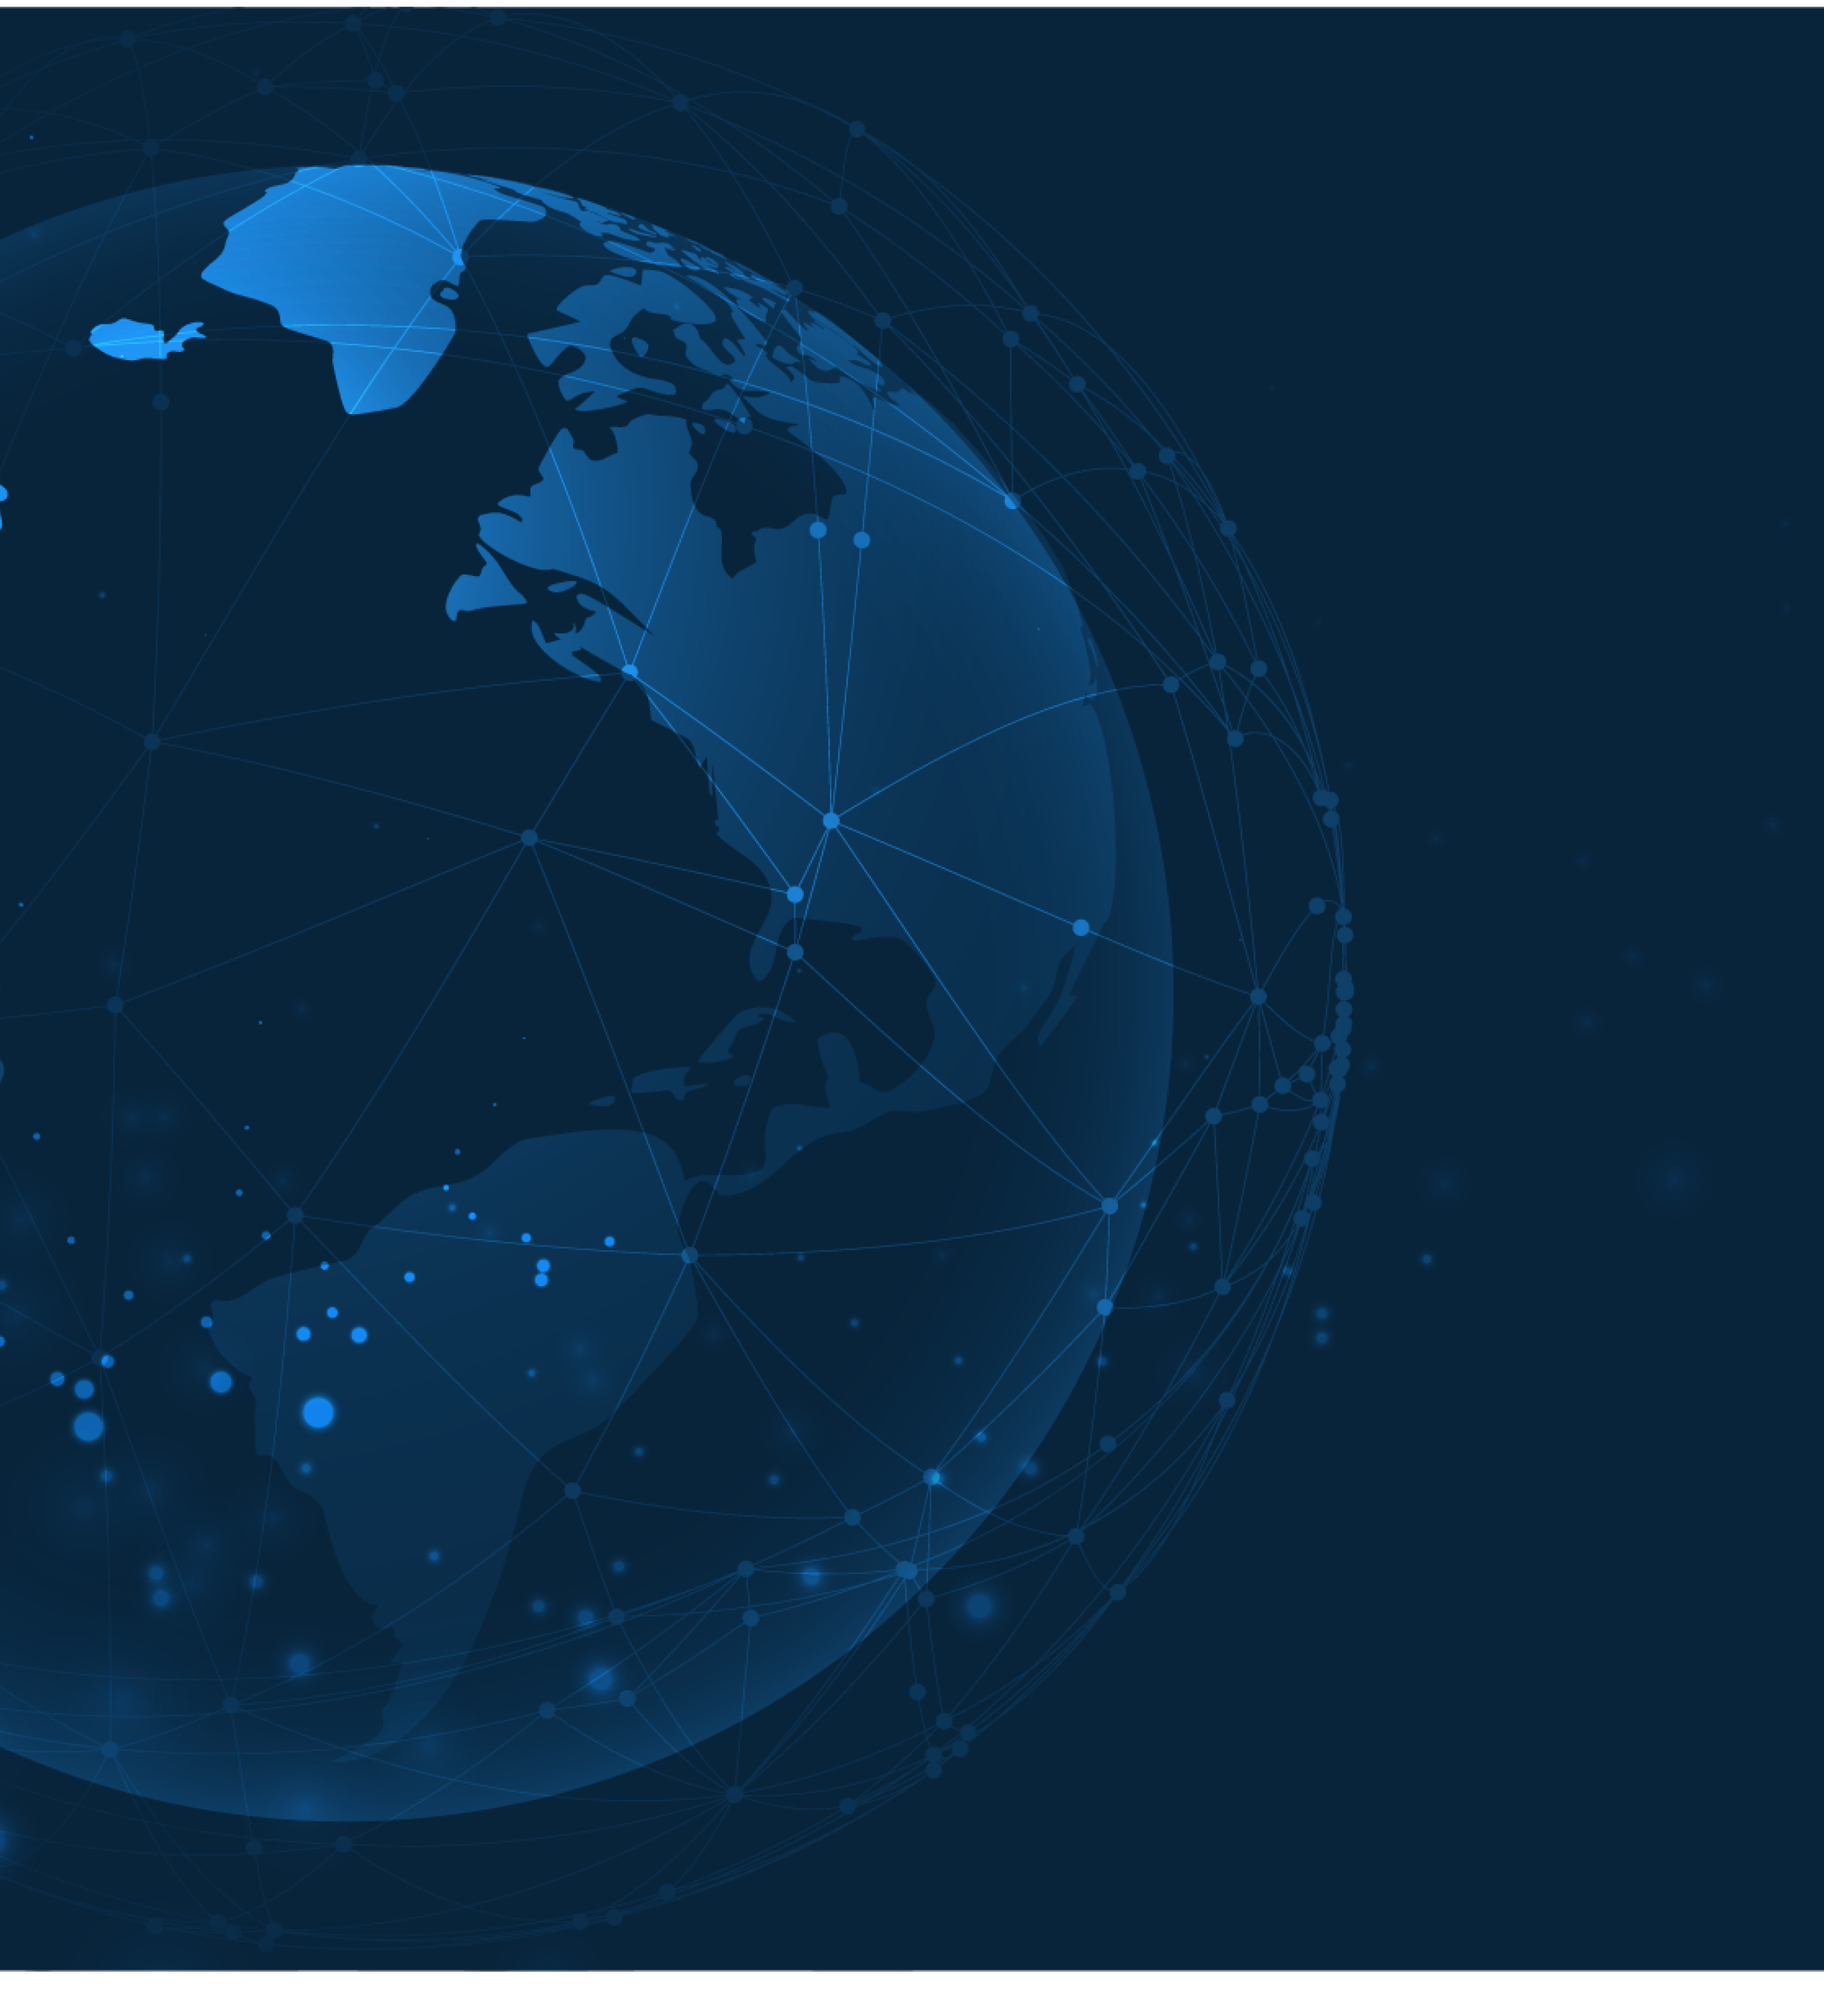
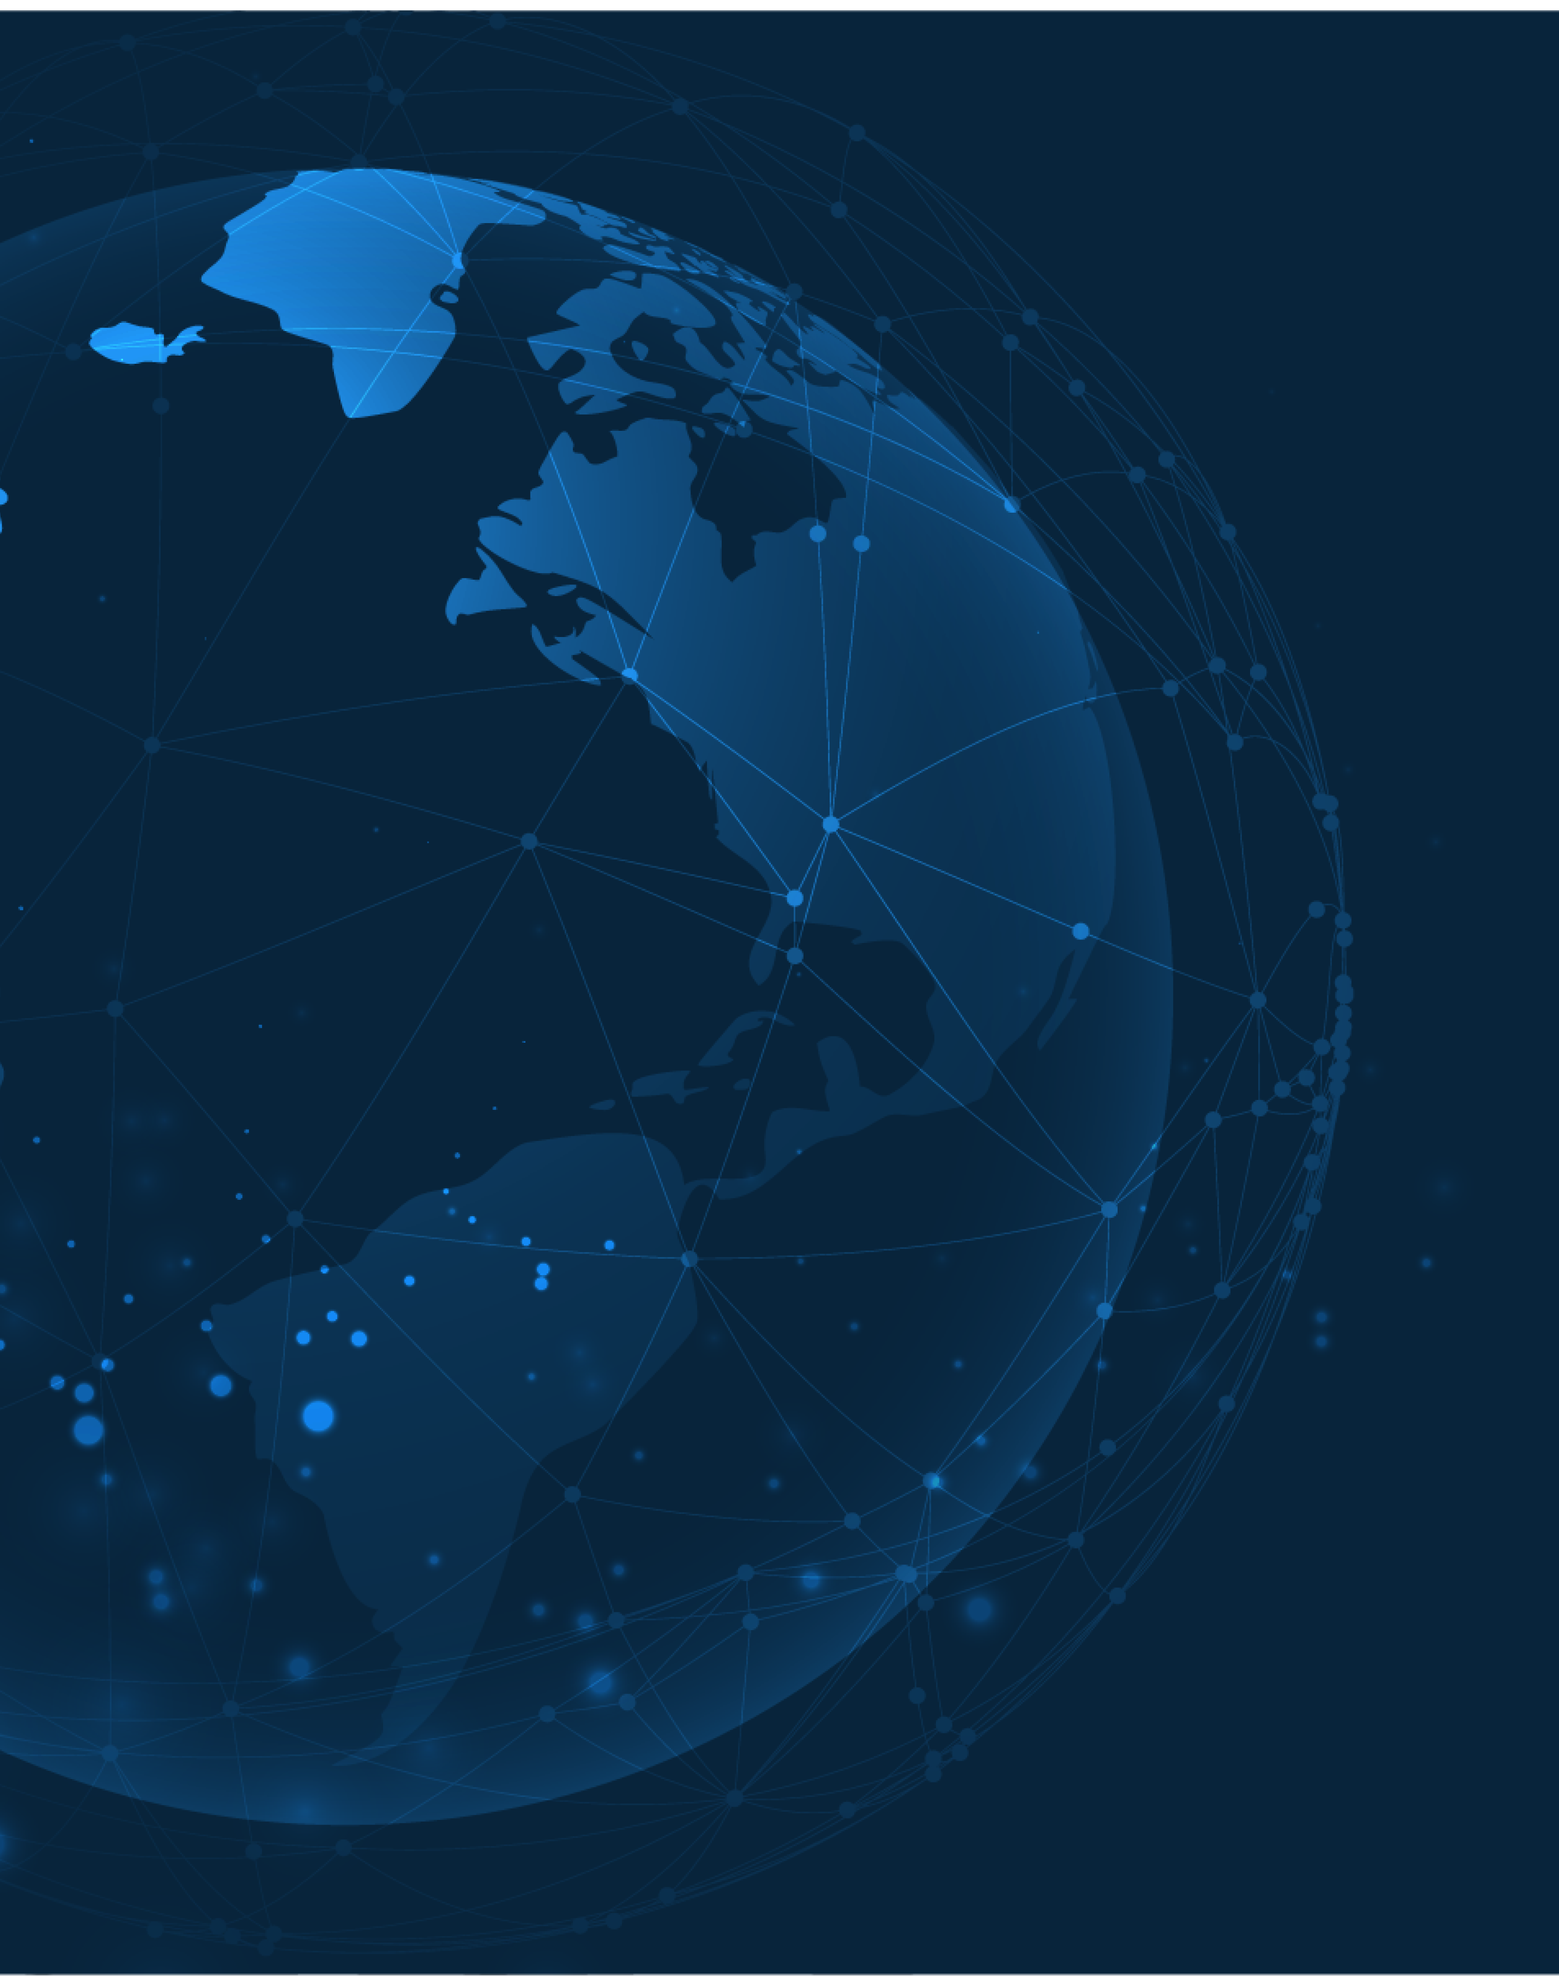
updated

diff --git a/src/components/ExploreAvail.jsx b/src/components/ExploreAvail.jsx
@@ -1,7 +1,7 @@
 import React from "react";
 
 // IMPORTS
-// import explore from "../assets/Globe.png";
+import explore from "../assets/Globe.png";
 import i1 from "../assets/explorePaymob/i1.png";
 import i2 from "../assets/explorePaymob/i2.png";
 import i3 from "../assets/explorePaymob/i3.png";
@@ -28,22 +28,22 @@ const ExploreAvail = () => {
 	];
 
 	return (
-		<div className="explore_availability_container pt-5 py-md-5">
+		<div className="explore_availability_container pt-md-5 py-md-5">
 			<div className="page_container">
 				<div className="container-fluid">
 					<div className="row">
 						<div className="col-11 col-lg-12 mx-auto">
 							<div className="row">
-								<div className="col-10 col-md-8 col-lg-6 mx-auto order-1 order-lg-0 px-0">
-									{/* <img className="w-100" src={explore} alt="explores" /> */}
+								<div className="col-10 col-md-8 col-lg-6 mx-auto order-1 order-lg-0 px-0 d-none d-md-block">
+									<img className="w-100" src={explore} alt="explores" />
 								</div>
 								<div className="col-12 col-lg-6">
 									<div className="row">
-										<div className="col-10 ms-auto">
-											<p className="text-end orangeC gotham f18 mb-0 mb-md-2">
+										<div className="col-md-10 ms-md-auto">
+											<p className="text-md-end orangeC gotham f18 mb-0 mb-md-2">
 												Where is Paymob?
 											</p>
-											<h1 className="text-white gotham fw700 text-end mb-4">
+											<h1 className="text-white gotham fw700 text-md-end mb-4">
 												Explore our availability
 											</h1>
 											<p className="border_bottom border-white pb-5 underHead text-white f18 crice fw600">

diff --git a/src/styles/style.css b/src/styles/style.css
@@ -1476,7 +1476,8 @@ input:focus {
 }
 
 .blog_list_container .inner_container {
-  background: #f1efec;
+  background: -webkit-gradient(linear, left top, left bottom, color-stop(-23.73%, rgba(17, 75, 124, 0.99)), to(#08243b));
+  background: linear-gradient(180deg, rgba(17, 75, 124, 0.99) -23.73%, #08243b 100%);
   -webkit-box-shadow: 0px 3px 11px rgba(0, 0, 0, 0.09);
           box-shadow: 0px 3px 11px rgba(0, 0, 0, 0.09);
   border-radius: 19px;
@@ -1485,10 +1486,10 @@ input:focus {
 
 .blog_list_container .thumbnail {
   max-width: 480px;
-  border-radius: 18px;
+  border-radius: 20px;
   min-height: 327px;
-  -webkit-box-shadow: 1px 1px 10px #ccc;
-          box-shadow: 1px 1px 10px #ccc;
+  -webkit-box-shadow: 0px 3px 11px rgba(0, 0, 0, 0.09);
+          box-shadow: 0px 3px 11px rgba(0, 0, 0, 0.09);
   -o-object-fit: cover;
      object-fit: cover;
   width: 100%;
@@ -2306,6 +2307,13 @@ input:focus {
   }
   .press_hero_container {
     padding-top: 4rem;
+  }
+  .explore_availability_container {
+    background: url("../assets/globe2.png");
+    height: 900px;
+    width: 100%;
+    background-repeat: no-repeat;
+    padding-top: 20rem;
   }
 }
 

diff --git a/src/styles/style.scss b/src/styles/style.scss
@@ -1537,7 +1537,11 @@ input:focus {
 	padding: 8rem 0rem 0rem 0rem;
 
 	.inner_container {
-		background: #f1efec;
+		background: linear-gradient(
+			180deg,
+			rgba(17, 75, 124, 0.99) -23.73%,
+			#08243b 100%
+		);
 		box-shadow: 0px 3px 11px rgba(0, 0, 0, 0.09);
 		border-radius: 19px;
 		padding: 1.5rem 2rem;
@@ -1545,9 +1549,9 @@ input:focus {
 
 	.thumbnail {
 		max-width: 480px;
-		border-radius: 18px;
+		border-radius: 20px;
 		min-height: 327px;
-		box-shadow: 1px 1px 10px #ccc;
+		box-shadow: 0px 3px 11px rgba(0, 0, 0, 0.09);
 		object-fit: cover;
 		width: 100%;
 	}
@@ -2424,6 +2428,13 @@ input:focus {
 	}
 	.press_hero_container {
 		padding-top: 4rem;
+	}
+	.explore_availability_container {
+		background: url("../assets/globe2.png");
+		height: 900px;
+		width: 100%;
+		background-repeat: no-repeat;
+		padding-top: 20rem;
 	}
 }
 

diff --git a/src/components/ContactBody.jsx b/src/components/ContactBody.jsx
@@ -80,12 +80,12 @@ const ContactBody = () => {
 												</li>
 											</ul>
 
-											<iframe
+											{/* <iframe
 												className="mt-4"
 												src="https://calendar.google.com/calendar/embed?height=600&wkst=1&bgcolor=%23ffffff&ctz=Europe%2FLondon&showTitle=1&showNav=1&showDate=1&showPrint=1&showTabs=1&showCalendars=1&showTz=1&title=June's%20calendar&src=anVuZXJlc3prYUBwYXltb2IudWs&src=YWRkcmVzc2Jvb2sjY29udGFjdHNAZ3JvdXAudi5jYWxlbmRhci5nb29nbGUuY29t&src=ZW4tZ2IudWsjaG9saWRheUBncm91cC52LmNhbGVuZGFyLmdvb2dsZS5jb20&src=anJlc3prYTk1QGdtYWlsLmNvbQ&color=%23039BE5&color=%2333B679&color=%230B8043&color=%239E69AF"
 												style={{ border: "solid 1px #777" }}
 												title="calender"
-											></iframe>
+											></iframe> */}
 										</div>
 									</div>
 								</div>

diff --git a/src/App.js b/src/App.js
@@ -13,9 +13,9 @@ import Home from "./pages/Home.jsx";
 import ProductOverview from "./pages/ProductOverview";
 import AndroidSdk from "./pages/AndroidSdk";
 import SoftPos from "./pages/SoftPos";
-import MposCard from "./pages/MposCard";
-import MiniPos from "./pages/MiniPos";
-import SmartPos from "./pages/SmartPos";
+// import MposCard from "./pages/MposCard";
+// import MiniPos from "./pages/MiniPos";
+// import SmartPos from "./pages/SmartPos";
 import MerchantOnboarding from "./pages/MerchantOnboarding";
 import MerchantDashboard from "./pages/MerchantDashboard";
 import AdminPortal from "./pages/AdminPortal";

diff --git a/src/components/BlogListHero.jsx b/src/components/BlogListHero.jsx
@@ -26,7 +26,7 @@ const BlogListHero = ({ blogs }) => {
 												dangerouslySetInnerHTML={{
 													__html: blogs[0].title,
 												}}
-												className="f35 gotham fw600 color1"
+												className="f35 gotham fw600 text-white"
 											></h2>
 											<div className="mt-2 mt-md-5">
 												<Link to={`/blogInside/${blogs[0].slug}`}>

diff --git a/src/redux/actions.jsx b/src/redux/actions.jsx
@@ -1,7 +1,7 @@
 import { BLOGS } from "./type";
 import axios from "axios";
 
-const url = "https://v1.nocodeapi.com/paymob1234/ghost/PgUAPCdEXBfABFYr";
+const url = "https://v1.nocodeapi.com/paymob1234/ghost/CLxPyVlqTQfbKrAg";
 
 const blogFunc = (data) => {
 	return {

diff --git a/src/components/BlogPagination.jsx b/src/components/BlogPagination.jsx
@@ -15,7 +15,7 @@ const BlogPagination = ({
 	}
 
 	return (
-		<div className="bespoke_solution_container">
+		<div className="py-5">
 			<div className="page_container">
 				<div className="container-fluid">
 					<div className="row">
